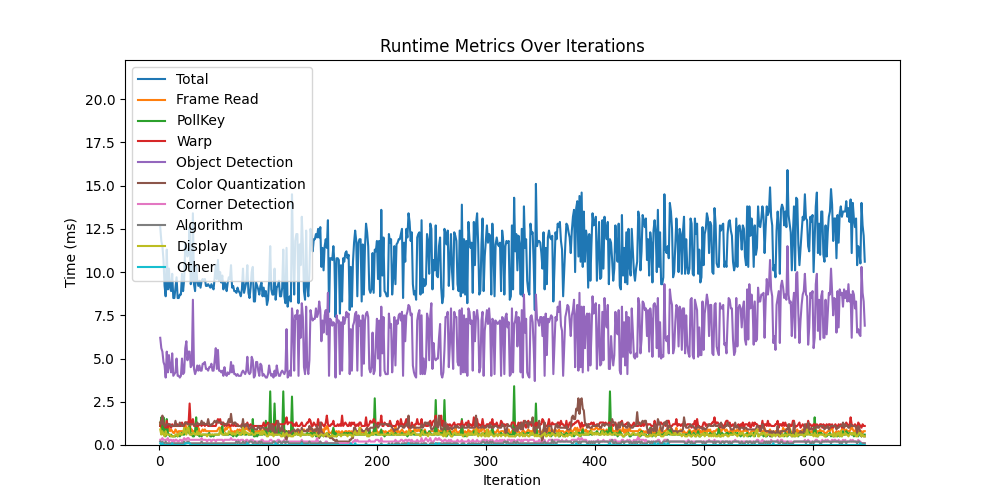
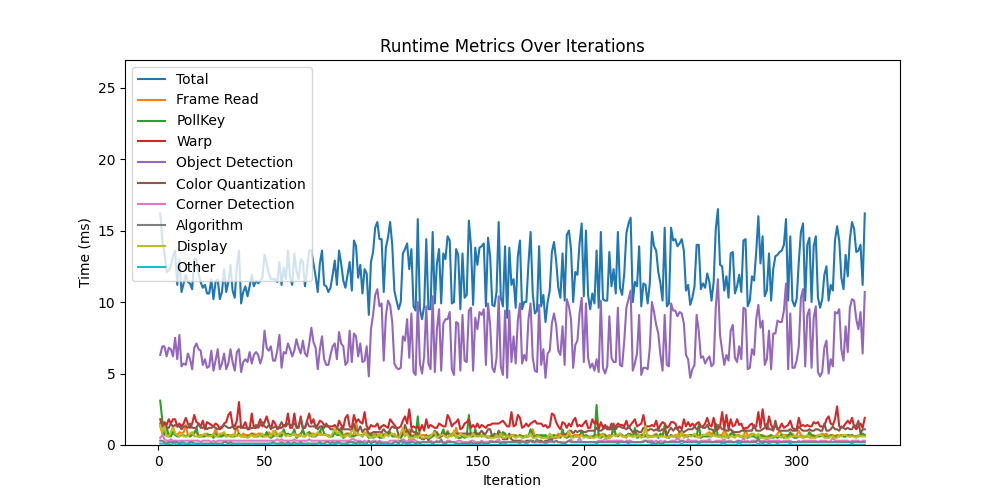
Updated tried overclocking

diff --git a/machine/predict.py b/machine/predict.py
@@ -3,6 +3,9 @@ import time
 import cv2
 from dotenv import load_dotenv
 from ultralytics import YOLO
+import numpy as np
+import torch
+import torch.nn.functional as F
 
 # from template_model import TemplateModel # to run in machine
 from machine.template_model import TemplateModel  # to run in main
@@ -43,20 +46,65 @@ class YoloModel(TemplateModel):
         self.device = device
         self.img_size = image_size
         # compiled_model = core.compile_model(model=model, device_name=device.value)
-    
-    def predict(self, img, show=False):
+    @profile
+    def predict(self, img, show=False, manual_preprocess=False):
         # Max_det = max number of detections, 3 for housebot + 2 bots. Stops YOLO from hallucinating extra bots when confidence is low. Iou=0.8 to prevent multiple detections on same bot.
-        if self.device != None:
+        if manual_preprocess:
+            if self.device == "cuda":
+                # Resize and preprocess on GPU
+                # 1. Upload to GPU (HWC, BGR, uint8) -> (CHW, BGR, uint8)
+                input_tensor = torch.from_numpy(img).to(self.device, non_blocking=True).permute(2, 0, 1)
+                
+                # 2. BGR to RGB and Normalize (CHW, RGB, float32)
+                input_tensor = input_tensor[[2, 1, 0], :, :].float() / 255.0
+                
+                # 3. Add batch dimension
+                input_tensor = input_tensor.unsqueeze(0)
+                
+                # 4. Resize
+                input_tensor = F.interpolate(input_tensor, size=(self.img_size, self.img_size), mode='bilinear', align_corners=False)
+            else:
+                # Resize and preprocess on CPU
+                resized = cv2.resize(img, (self.img_size, self.img_size))
+                input_tensor = cv2.cvtColor(resized, cv2.COLOR_BGR2RGB)
+                input_tensor = input_tensor.transpose(2, 0, 1) # HWC to CHW
+                input_tensor = np.ascontiguousarray(input_tensor, dtype=np.float32) / 255.0
+                input_tensor = torch.from_numpy(input_tensor)
+                
+                if self.device:
+                    input_tensor = input_tensor.to(self.device)
+                
+                input_tensor = input_tensor.unsqueeze(0) # Add batch dimension
+            
+            results = self.model(input_tensor, verbose=True, task='detect', imgsz=self.img_size, max_det=5, iou=0.8)
+            result = results[0]
+            
+            # Scale coordinates back to original image size
+            scale_x = img.shape[1] / self.img_size
+            scale_y = img.shape[0] / self.img_size
+            
+            boxes_xyxy = result.boxes.xyxy.cpu().numpy()
+            boxes_xyxy[:, [0, 2]] *= scale_x
+            boxes_xyxy[:, [1, 3]] *= scale_y
+            
+            boxes_xywh = result.boxes.xywh.cpu().numpy()
+            boxes_xywh[:, [0, 2]] *= scale_x
+            boxes_xywh[:, [1, 3]] *= scale_y
+            
+            boxes_cls = result.boxes.cls.cpu().numpy()
+            
+        elif self.device != None:
             results = self.model(img, device=self.device, verbose=True, task='detect', imgsz=self.img_size, max_det=5, iou=0.8)
+            result = results[0]
+            boxes_xyxy = result.boxes.xyxy.cpu().numpy()
+            boxes_xywh = result.boxes.xywh.cpu().numpy()
+            boxes_cls = result.boxes.cls.cpu().numpy()
         else:
             results = self.model(img, verbose=True, task='detect', imgsz=self.img_size, max_det=5, iou=0.8)
-        result = results[0]
-
-        # 1. BATCH EXTRACT EVERYTHING TO CPU ONCE
-        # This is the secret sauce. .cpu().numpy() is faster than calling .tolist() inside a loop.
-        boxes_xyxy = result.boxes.xyxy.cpu().numpy()
-        boxes_xywh = result.boxes.xywh.cpu().numpy()
-        boxes_cls = result.boxes.cls.cpu().numpy()
+            result = results[0]
+            boxes_xyxy = result.boxes.xyxy.cpu().numpy()
+            boxes_xywh = result.boxes.xywh.cpu().numpy()
+            boxes_cls = result.boxes.cls.cpu().numpy()
 
         robots = []
         housebots = []

diff --git a/main.py b/main.py
@@ -34,7 +34,7 @@ from warp_main import warp_map
 
 # MATT_LAPTOP = False           # Deprecated, matt laptop handled by torch device checks
 JANK_CONTROLLER = False         # Deprecated, True if using backup controller
-WARP_AND_COLOR_PICKING = True  # Re-do warp & color selection
+WARP_AND_COLOR_PICKING = False  # Re-do warp & color selection
 DISPLAY_SCALE = 0.5             # Display frame smaller for selection with 1080p video, 1.0 default
 IS_TRANSMITTING = False         # True if connected to live Huey
 WEAPON_ON = False               # True if weapon motor should be on
@@ -50,6 +50,7 @@ CAMERA_STREAM = False           # True if using live camera stream, False if usi
 SHEET_RUNTIME = True            # Save runtimes to a spreadsheet and generate a graph (install "Excel Viewer" VS Code extension)
 SAVE_BBOXES = False             # Save bounding box images every BBOX_SAVE_FREQUENCY iterations
 BBOX_SAVE_FREQUENCY = 10        # How often to save bounding box images (every n iterations)
+MANUAL_PREPROCESS = False        # Manually resize and package tensor for object detection
 
 # MODEL_NAME = "SmallComp"        # Used for comp, best accuracy if you have the compute for it.
 MODEL_NAME = "NanoSizeVariant"  # Use with lower image size for faster performance, not much worse accuracy.
@@ -218,7 +219,7 @@ def main():
 
                 # 11. Run the Warped Image through Object Detection
                 with rs.log_timing("Object Detection"):
-                    detected_bots = predictor.predict(warped_frame)
+                    detected_bots = predictor.predict(warped_frame, manual_preprocess=MANUAL_PREPROCESS)
                 
                 if SAVE_BBOXES and iteration % BBOX_SAVE_FREQUENCY == 1:
                     for bot in range(len(detected_bots["bots"])):
